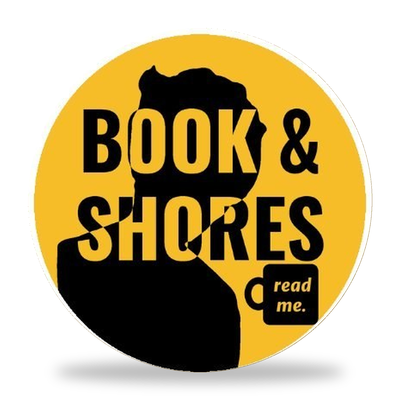
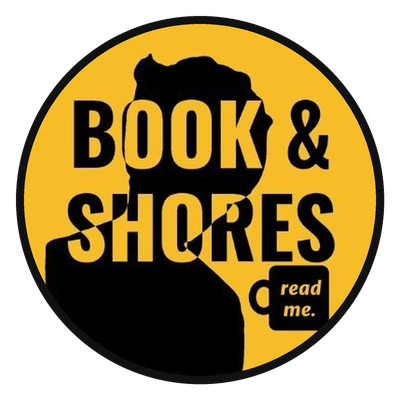
WE LOVE YOU: transparent spinning coin (black ring, no shadow); drop white box/border on coin and mug tiles

diff --git a/index.html b/index.html
@@ -582,11 +582,11 @@
                 </div>
                 <!-- B&S: read me. mug (spinning) replaces KCRW in WE LOVE YOU; links to the Printify store listing -->
                 <div class="radio-card">
-                    <a href="https://book-and-shores.printify.me/product/33544938" target="_blank" rel="noopener" aria-label="Get the read me. mug (opens in a new tab)"><picture><source media="(prefers-reduced-motion: reduce)" srcset="atlas/mug3d-poster.png"><img src="atlas/mug3d-turntable.webp" alt="read me. mug, spinning" loading="lazy" style="max-width: 220px; width: 100%; height: auto; aspect-ratio: 1 / 1; object-fit: contain; background: #fff; display: block; margin: 0 auto; border: 3px solid var(--black); border-radius: 8px;"></picture></a>
+                    <a href="https://book-and-shores.printify.me/product/33544938" target="_blank" rel="noopener" aria-label="Get the read me. mug (opens in a new tab)"><picture><source media="(prefers-reduced-motion: reduce)" srcset="atlas/mug3d-poster.png"><img src="atlas/mug3d-turntable.webp" alt="read me. mug, spinning" loading="lazy" style="max-width: 220px; width: 100%; height: auto; aspect-ratio: 1 / 1; object-fit: contain; background: transparent; display: block; margin: 0 auto;"></picture></a>
                     <a href="https://book-and-shores.printify.me/product/33544938" target="_blank" rel="noopener" class="btn">GET THE MUG</a>
                 </div>
                 <div class="radio-card">
-                    <picture><source media="(prefers-reduced-motion: reduce)" srcset="atlas/tip-spin-poster.png"><img src="atlas/tip-spin.webp" alt="Tip the Booktender at Book &amp; Shores" loading="lazy" style="max-width: 220px; width: 100%; height: auto; aspect-ratio: 1 / 1; object-fit: contain; background: #fff; display: block; margin: 0 auto; border: 3px solid var(--black); border-radius: 8px;"></picture>
+                    <picture><source media="(prefers-reduced-motion: reduce)" srcset="atlas/tip-spin-poster.png"><img src="atlas/tip-spin.webp" alt="Tip the Booktender at Book &amp; Shores" loading="lazy" style="max-width: 220px; width: 100%; height: auto; aspect-ratio: 1 / 1; object-fit: contain; background: transparent; display: block; margin: 0 auto;"></picture>
                     <!-- B&S: tip tile uses X profile image; same PayPal link -->
                     <a href="https://www.paypal.com/donate/?hosted_button_id=KW8FF3VJ27C3S" target="_blank" class="btn" aria-label="Tip the Booktender on PayPal (opens in a new tab)" rel="noopener">TIP THE BOOKTENDER</a>
                 </div>
